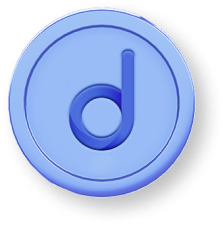
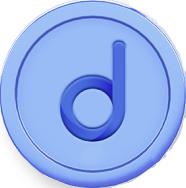
adjust image

diff --git a/frontend-landing/src/components/Card/TokenCard.tsx b/frontend-landing/src/components/Card/TokenCard.tsx
@@ -38,7 +38,7 @@ const useStyles = makeStyles(({ palette, breakpoints }) => ({
   },
   image: {
     position: 'absolute',
-    right: '-30px',
+    right: '-10px',
     top: '-70px',
   }
 }));
